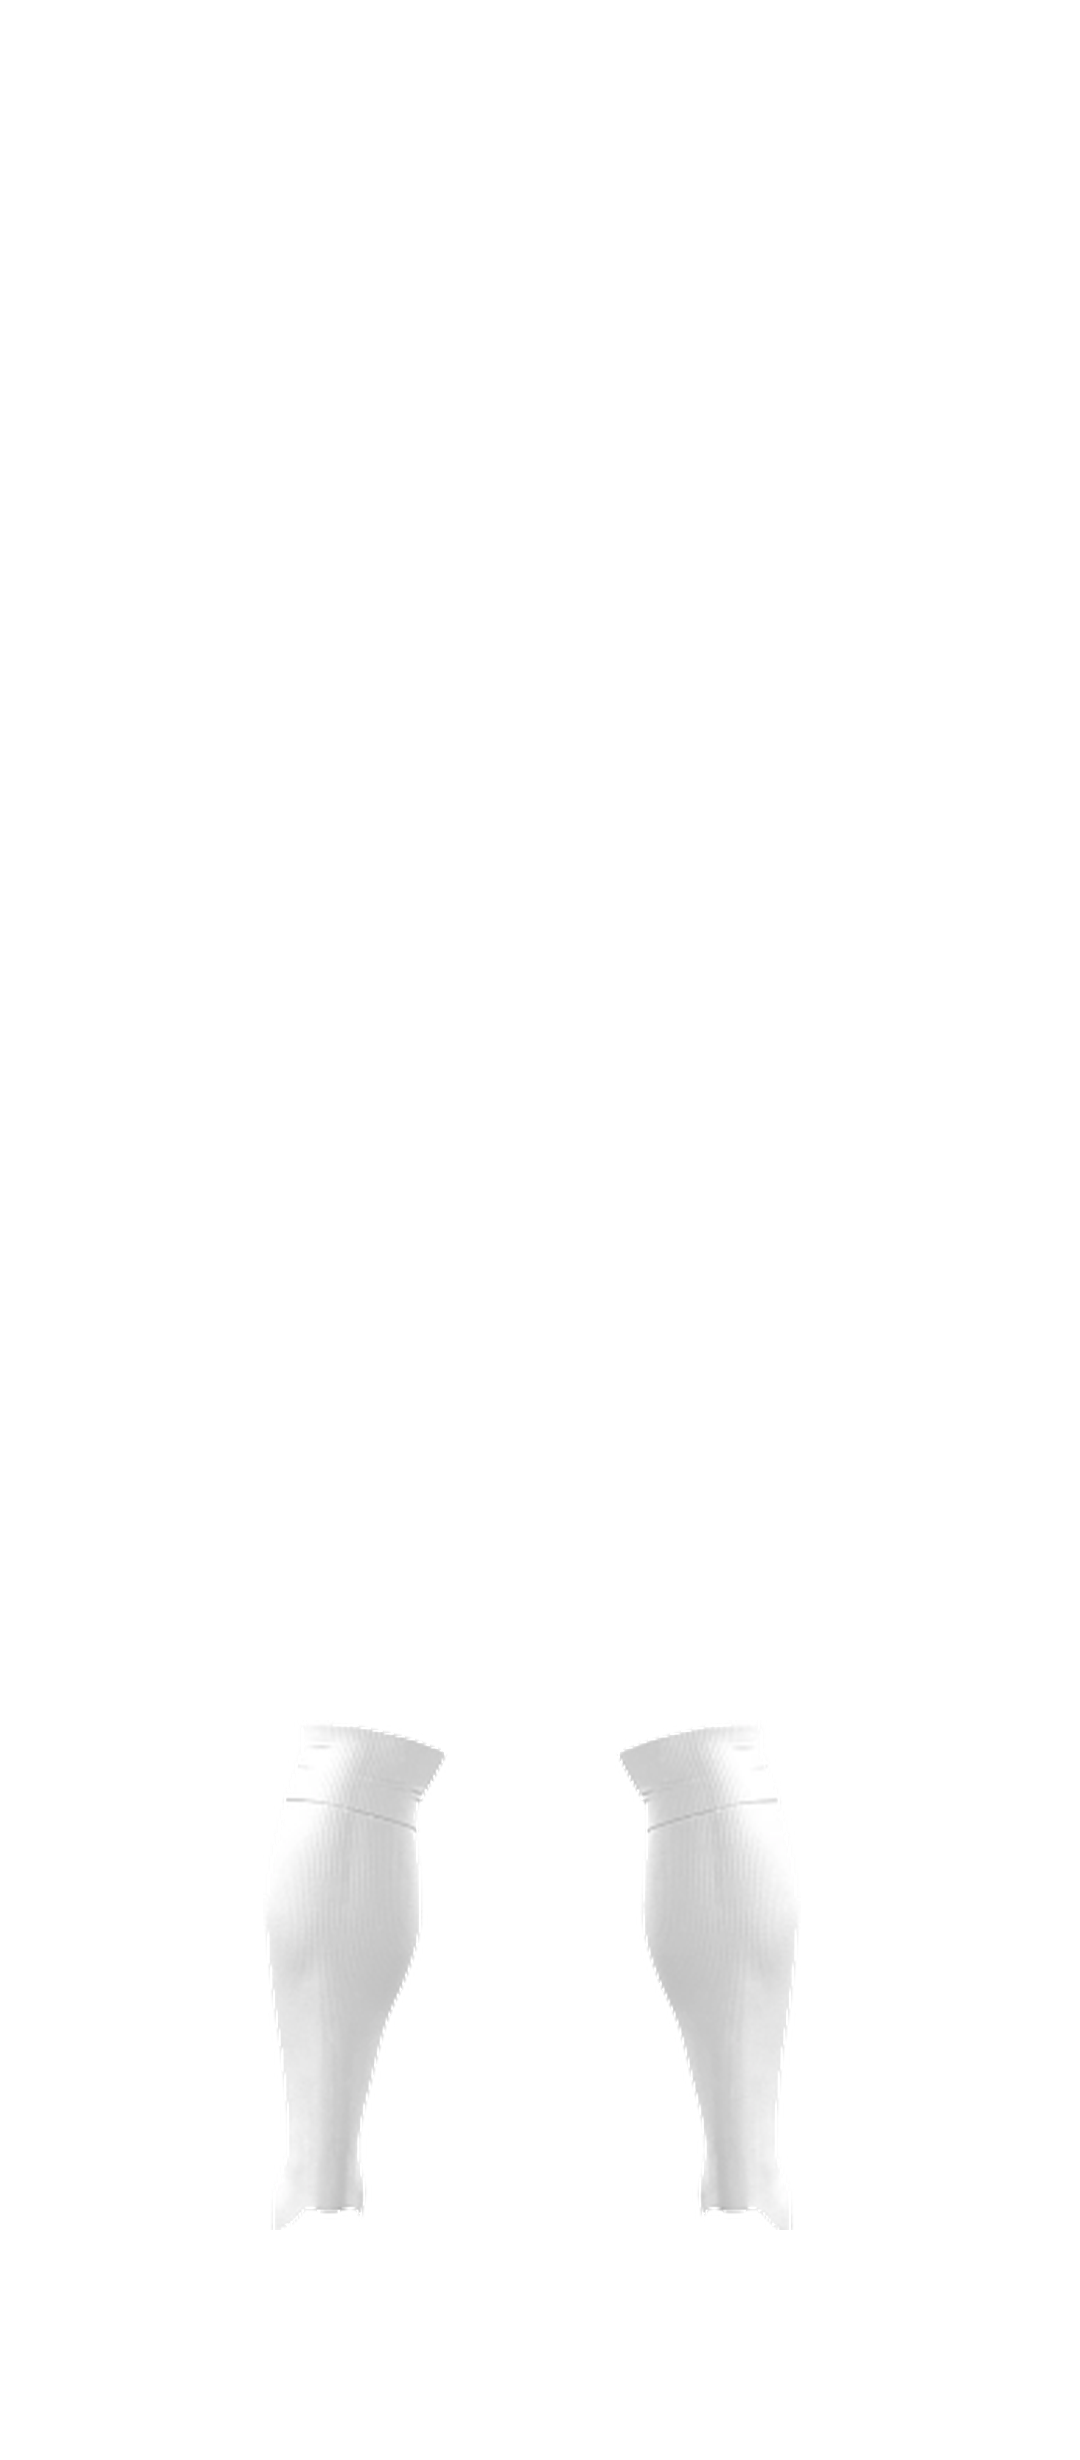
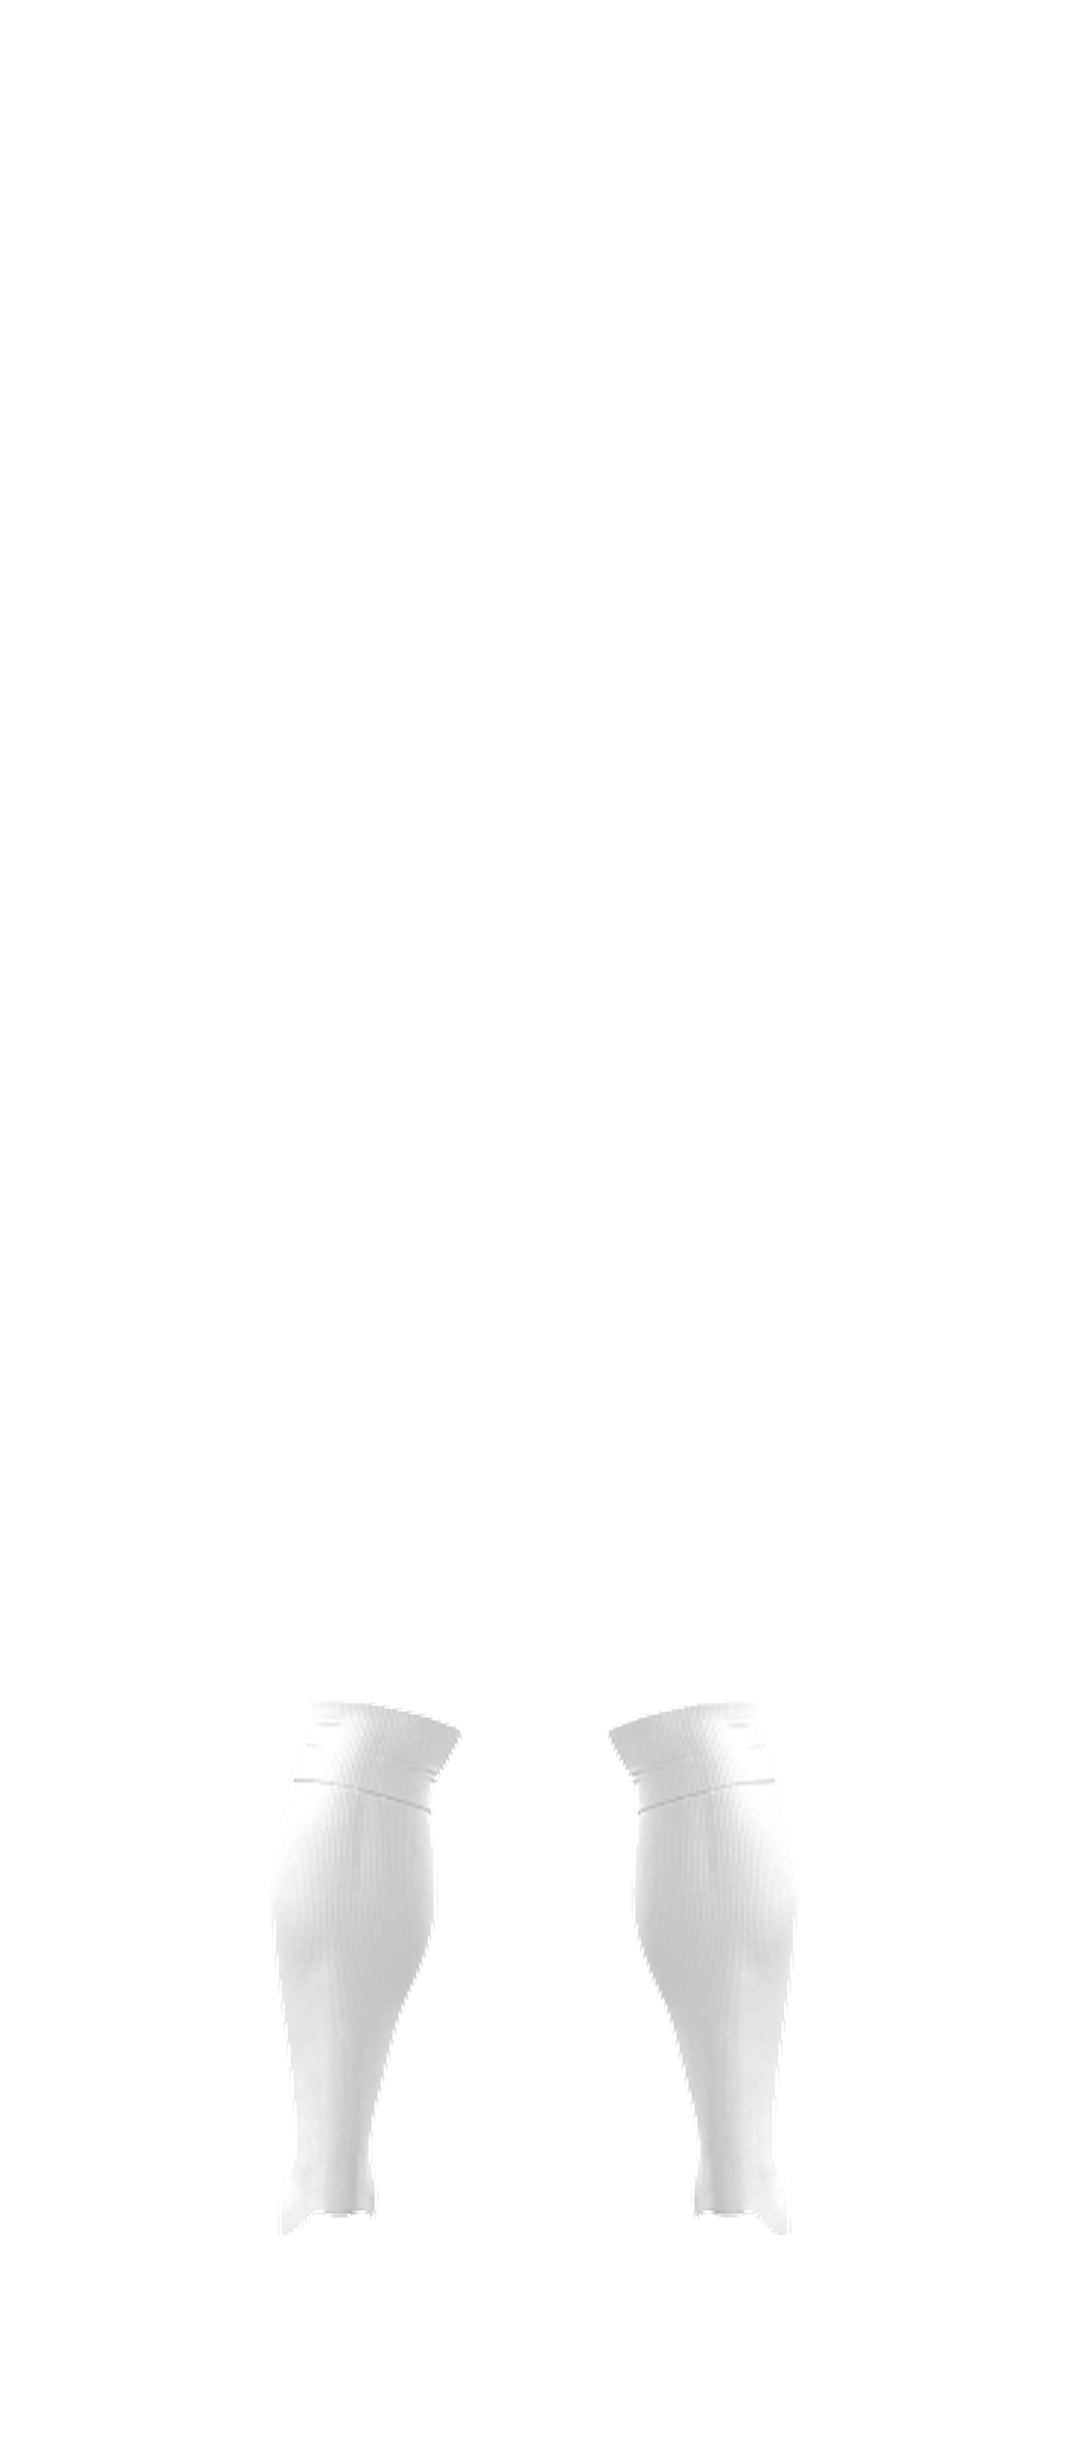
Jogador recortado às partes visíveis, com cortes arrumados
Com o kit cinza liso a separação por cor é fiável (o kit é dessaturado
em toda a gama, a pele é quente), ao contrário do kit preto/vermelho
que partilhava gamas com o cabelo e as sombras da pele.

O recorte deixa só o que fica à vista — cabeça, braços, joelhos e
chuteiras — e é arrumado: rotulagem de componentes deixa cair os
fragmentos das costuras, o pescoço é cortado por um arco (a gola
assenta natural) e os joelhos por linhas horizontais comuns aos dois
lados. Cabeça e chuteiras ficam inteiras, porque cabelo, barba e botas
são dessaturados e o filtro de cor comia-os.

As peças foram redimensionadas para fechar as fronteiras do recorte,
medidas no alfa: pescoço y117, cava y191, joelho y406..438, bota y548.

diff --git a/src/lib/kitReal.ts b/src/lib/kitReal.ts
@@ -73,16 +73,16 @@ const CAIXAS_PADRAO: Record<PecaKit, Record<LadoKit, Caixa>> = {
     (cozedura de moldes/jog — perfil "jogador" do montar-originais.py). */
 const CAIXAS_JOGADOR: Record<PecaKit, Record<LadoKit, Caixa>> = {
   camisola: {
-    frente: { x: 345, y: 484, w: 396, h: 782 },
-    verso: { x: 341, y: 484, w: 398, h: 790 },
+    frente: { x: 337, y: 486, w: 413, h: 815 },
+    verso: { x: 332, y: 487, w: 415, h: 823 },
   },
   calcao: {
-    frente: { x: 243, y: 1184, w: 594, h: 489 },
-    verso: { x: 232, y: 1184, w: 617, h: 482 },
+    frente: { x: 228, y: 1168, w: 623, h: 513 },
+    verso: { x: 216, y: 1168, w: 647, h: 506 },
   },
   meiao: {
-    frente: { x: 280, y: 1720, w: 560, h: 520 },
-    verso: { x: 272, y: 1720, w: 568, h: 505 },
+    frente: { x: 272, y: 1696, w: 576, h: 545 },
+    verso: { x: 264, y: 1696, w: 584, h: 530 },
   },
 };
 

diff --git a/scripts/recortar-jogador.py b/scripts/recortar-jogador.py
@@ -1,89 +1,111 @@
 """
-Prepara o jogador do ambiente de teste (?lab=jogador): apaga o KIT da foto
-e deixa só o corpo — cabeça, braços, joelhos e chuteiras.
+Recorta o jogador do ambiente de teste (?lab=jogador) para SÓ AS PARTES
+VISÍVEIS: cabeça/pescoço, braços, joelhos e chuteiras. O kit cinza liso da
+foto desaparece — as nossas peças passam a ser a única roupa e recolorem
+sem denunciar a foto.
 
-Porquê: enquanto o kit da foto ficar por baixo, ele espreita nas folgas das
-nossas peças e denuncia as cores antigas. Removido o kit, as nossas peças
-são a única roupa e podem recolorir à vontade; basta que cubram as fronteiras
-de pele (gola, cava, coxa, cano da meia), o que é fácil porque sobrepor um
-pouco de pele lê-se como manga/calção mais compridos.
+O kit cinza separa-se do corpo com fiabilidade (é dessaturado e claro,
+a pele é quente e o cabelo escuro), ao contrário do kit preto/vermelho
+anterior, que partilhava gamas com o cabelo e as sombras da pele.
 
-O corpo é reconhecido por PELE (R>G>B com margem), mais duas bandas onde se
-guarda tudo: o topo (cabelo/cabeça) e o fundo (chuteiras).
+Depois da separação por cor, o recorte é ARRUMADO:
+  - só os blocos grandes ficam (fora fragmentos e ruído das costuras);
+  - o pescoço é cortado por um arco, não a direito;
+  - os joelhos e os tornozelos são cortados por linhas horizontais
+    comuns aos dois lados, para as peças assentarem alinhadas.
 
-    python3 scripts/recortar-jogador.py <pasta com jogcut-{lado}.png>
+    python3 scripts/recortar-jogador.py <pasta com jogcinza-{lado}.png>
 """
 import os
 import sys
 
 import numpy as np
-from PIL import Image, ImageFilter
+from PIL import Image, ImageDraw, ImageFilter
+from scipy import ndimage
 
-# bandas verticais, em fração da altura do recorte
-BANDA_CABECA = 0.155     # até aqui guarda tudo (cabelo + rosto + pescoço)
-BANDA_BOTAS = 0.915      # a partir daqui guarda tudo (chuteiras)
+# fronteiras (fração da altura do recorte) medidas nas bandas do kit cinza
+PESCOCO = 0.175      # arco do pescoço: onde a gola da camisola vai assentar
+JOELHO_CIMA = 0.660  # topo do joelho — a bainha do calção fica por cima
+JOELHO_BAIXO = 0.725  # base do joelho — o cano da meia entra aqui
+BOTA = 0.905         # daqui para baixo é chuteira: guarda-se tudo
+
+AREA_MINIMA = 900    # blocos menores que isto são ruído das costuras
 
 
-def pele(a):
-    """Máscara de pele: R>G>B com margem, nem muito escura nem lavada.
+def mascara_corpo(im):
+    """Tudo menos o kit cinza: pele, cabelo e chuteiras."""
+    a = np.array(im)
+    rgb = a[..., :3].astype(int)
+    op = a[..., 3] > 60
+    # o kit é dessaturado em TODA a gama (as dobras sombreadas também), por
+    # isso o critério é só a saturação; o cabelo e as chuteiras, que também
+    # são dessaturados, ficam salvos pelas bandas da cabeça e das botas
+    sat = rgb.max(2) - rgb.min(2)
+    return op & ~(sat < 32)
 
-    O `r - b < 110` exclui o vermelho forte do kit da foto (r-b ~170),
-    que de outra forma passaria por pele nas orlas das riscas."""
-    r, g, b = a[..., 0].astype(int), a[..., 1].astype(int), a[..., 2].astype(int)
-    lum = (r + g + b) / 3
-    return ((a[..., 3] > 60) & (r > g) & (g >= b)
-            & (r - b > 18) & (r - b < 110) & (lum > 55) & (lum < 225))
+
+def limpar(m, area_minima=AREA_MINIMA):
+    """Fica só com os blocos grandes (cabeça, braços, joelhos, botas)."""
+    rotulos, n = ndimage.label(m)
+    if n == 0:
+        return m
+    areas = ndimage.sum(m, rotulos, range(1, n + 1))
+    manter = np.zeros(n + 1, bool)
+    manter[1:][areas >= area_minima] = True
+    return manter[rotulos]
+
+
+def arredondar_pescoco(m, h, w):
+    """Corta o pescoço por um arco, para a gola assentar naturalmente."""
+    y = int(h * PESCOCO)
+    corte = Image.new('L', (w, h), 255)
+    d = ImageDraw.Draw(corte)
+    raio = int(w * 0.16)
+    d.rectangle([0, y, w, h], fill=0)          # abaixo do pescoço: fora
+    d.ellipse([w // 2 - raio, y - raio, w // 2 + raio, y + raio], fill=255)
+    return m & (np.array(corte) > 127)
 
 
 def recortar(caminho, saida):
     im = Image.open(caminho).convert('RGBA')
     im = im.crop(im.getchannel('A').getbbox())
     a = np.array(im)
-    h = a.shape[0]
+    h, w = a.shape[:2]
 
-    r, g, b = a[..., 0].astype(int), a[..., 1].astype(int), a[..., 2].astype(int)
-    # vermelho forte do kit: some sempre, mesmo nas bandas de "guardar tudo"
-    # (na banda das botas sobrava a barra vermelha do fundo da meia)
-    kit_vermelho = (r > 110) & (r - g > 60) & (r - b > 60)
-    # dilatar: a orla suavizada da máscara traria de volta pixels vermelhos
-    kit_vermelho = np.array(
-        Image.fromarray((kit_vermelho * 255).astype('uint8')).filter(ImageFilter.MaxFilter(7))
-    ) > 127
+    corpo = mascara_corpo(im)
+    # cabeça e chuteiras ficam INTEIRAS: cabelo e barba são escuros e
+    # dessaturados, e o filtro de cor comia-os
+    corpo[: int(h * PESCOCO)] = a[: int(h * PESCOCO), :, 3] > 60
+    corpo[int(h * BOTA):] = a[int(h * BOTA):, :, 3] > 60
 
-    corpo = pele(a)
-    corpo[: int(h * BANDA_CABECA)] = a[: int(h * BANDA_CABECA), :, 3] > 60
-    corpo[int(h * BANDA_BOTAS):] = a[int(h * BANDA_BOTAS):, :, 3] > 60
-    corpo &= ~kit_vermelho
-
+    # limpar antes e depois de fechar os buracos das sombras
+    corpo = limpar(corpo)
     m = Image.fromarray((corpo * 255).astype('uint8'))
-    # abertura: come as lascas finas das costuras do kit (2-4 px) sem
-    # comer os braços; depois fecho, para tapar sombras dentro da pele
-    m = m.filter(ImageFilter.MinFilter(9)).filter(ImageFilter.MaxFilter(9))
     m = m.filter(ImageFilter.MaxFilter(7)).filter(ImageFilter.MinFilter(7))
-    m = m.filter(ImageFilter.GaussianBlur(1.2))
+    corpo = limpar(np.array(m) > 127)
 
+    # cortes limpos: pescoço em arco, joelho e tornozelo a direito
+    cabeca = corpo.copy()
+    cabeca[int(h * PESCOCO):] = False
+    cabeca = arredondar_pescoco(corpo, h, w)
+
+    joelhos = corpo.copy()
+    joelhos[: int(h * JOELHO_CIMA)] = False
+    joelhos[int(h * JOELHO_BAIXO):] = False
+
+    resto = corpo.copy()          # braços (entre pescoço e joelho) e botas
+    resto[: int(h * PESCOCO)] = False
+    resto[int(h * JOELHO_CIMA): int(h * BOTA)] = False
+
+    corpo = cabeca | joelhos | resto
+
+    m = Image.fromarray((corpo * 255).astype('uint8')).filter(ImageFilter.GaussianBlur(1.0))
     a[..., 3] = (a[..., 3].astype(np.float32) * (np.array(m) / 255.0)).astype(np.uint8)
-    out = Image.fromarray(a)
-    out = out.crop(out.getchannel('A').getbbox())
+
+    out = Image.fromarray(a).crop(Image.fromarray(a).getchannel('A').getbbox())
     out.save(saida)
     print(f'{os.path.basename(saida)}: {out.width}x{out.height}')
     return out
-
-
-def marcos(im):
-    """Fronteiras onde as nossas peças têm de chegar (fração da altura)."""
-    a = np.array(im.getchannel('A'))
-    h, w = a.shape
-    linhas = (a > 60).sum(1)
-    cheio = np.where(linhas > 0)[0]
-    print('   perfil (fração da altura → largura ocupada):')
-    for f in (0.10, 0.20, 0.30, 0.40, 0.50, 0.60, 0.70, 0.80, 0.90):
-        y = int(h * f)
-        xs = np.where(a[y] > 60)[0]
-        if len(xs):
-            print(f'     {f:.2f}: x {xs.min():4d}..{xs.max():4d}  '
-                  f'ocupado {linhas[y]:4d}px')
-    return cheio
 
 
 if __name__ == '__main__':
@@ -91,7 +113,4 @@ if __name__ == '__main__':
     os.chdir(os.path.dirname(os.path.dirname(os.path.abspath(__file__))))
     os.makedirs('public/moldes/jog', exist_ok=True)
     for lado in ('frente', 'verso'):
-        print(f'--- {lado} ---')
-        im = recortar(f'{pasta}/jogcut-{lado}.png',
-                      f'public/moldes/jog/jogador-{lado}.png')
-        marcos(im)
+        recortar(f'{pasta}/jogcinza-{lado}.png', f'public/moldes/jog/jogador-{lado}.png')

diff --git a/scripts/montar-originais.py b/scripts/montar-originais.py
@@ -38,19 +38,18 @@ PERFIS = {
         topos={'camisa': 8, 'calcao': 244, 'meiao': 405},
         botas=True,
     ),
-    # Ambiente de teste: o jogador tem KIT CINZA LISO e fica INTACTO (nada
-    # é apagado — o cinza neutro que sobra nas folgas lê-se como sombra e
-    # não briga com a cor escolhida). Escalas e topos medidos nas bandas do
-    # kit dele: gola y105, cava/braços y196, bainha do calção y408, cano da
-    # meia y436, tornozelo/bota y560.
+    # Ambiente de teste: o jogador está RECORTADO às partes visíveis
+    # (scripts/recortar-jogador.py) — cabeça, braços, joelhos e chuteiras.
+    # As peças têm de fechar as fronteiras desse recorte, medidas no alfa:
+    # pescoço y117, cava/braços y191, joelho y406..438, bota y548.
     'jogador': dict(
         saida='public/moldes/jog',
-        fatores={'camisa': 0.72, 'calcao': 0.82, 'meiao': 0.70},
-        topos={'camisa': 104, 'calcao': 296, 'meiao': 430},
+        fatores={'camisa': 0.75, 'calcao': 0.86, 'meiao': 0.74},
+        topos={'camisa': 104, 'calcao': 292, 'meiao': 424},
         botas=False,
-        # pernas do jogador (wrapper x, na zona da meia): cada meia do par
-        # ancora à sua perna — divisão só de posicionamento
-        pernas={'frente': (92.0, 176.0), 'verso': (89.0, 177.0)},
+        # joelhos do jogador (wrapper x): cada meia do par ancora à sua
+        # perna — divisão só de posicionamento
+        pernas={'frente': (95.1, 174.1), 'verso': (91.7, 175.5)},
     ),
 }
 PERFIL = PERFIS['padrao']
